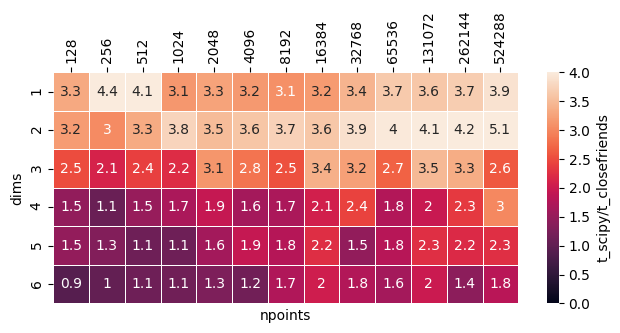
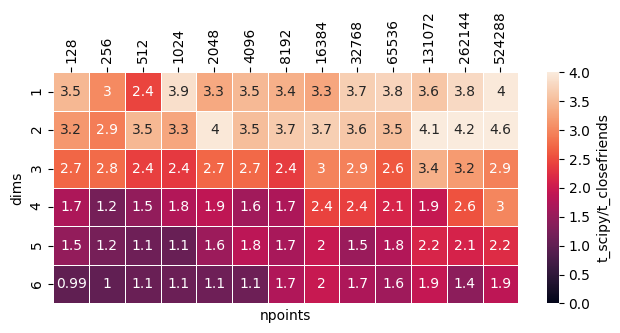
update README and perfstats with pair_i pair_j output

diff --git a/perfstats/square_constantpairs.py b/perfstats/square_constantpairs.py
@@ -45,7 +45,7 @@ for i, dim in enumerate(dims_iterator):
     for j, npoints in enumerate(npoints_iterator):
         seed += 1
         setup_stmt = setup_stmt_generator(seed, dim, npoints)
-        run_stmt = "pairs = cf.query_pairs(x, cutoff, maxnpair, output_type='ndarray')"
+        run_stmt = "pairs = cf.query_pairs(x, cutoff, maxnpair, output_type='seperate-ndarrays')"
         times_cf_square[i, j] = timeit(run_stmt, setup_stmt, number = 5)
 
 df_sp_square = pd.DataFrame(times_sp_square, index=dims_iterator, columns=npoints_iterator)

diff --git a/README.md b/README.md
@@ -6,14 +6,21 @@ strategy and sorting to improve sequential iteration over the pair list (like de
 ## Motivation
 
 In the Python world, there is already the well-established KDTree sub-module for finding pairs of points within an
-arbitrary-dimensioned particle cloud. This is not the optimal algorithm to use such as in particle-/point-based
-numerical methods, like in Smoothed Particle Hydrodynamics (SPH) used for CFD. For this particular case, closefriends
-can be 1.5 to 3 times faster than using `scipy.KDTree.query_pairs`.
+arbitrary-dimensioned particle cloud. It can be a little slow in some cases. For the purposes of Weakly-Compressible
+Smoothed Particle Hydrodymics simulations (WCSPH), this package is faster for finding pairs by:
+
+* using cell lists, which can be faster for 1/2/3D problems;
+* using user-defined pre-sized arrays to store resultant pairs, which can speed up code by 2-3x.
+
+The use of pre-sized arrays is significantly faster, but comes at the cost of less user-friendliness. This is because
+you must provide an upper limit on number of pairs, and if the actual number of pairs found is higher, the function
+fails (with an error message). For WCSPH simulations, the upper limit is known apriori, and doesn't change throughout
+the simulation.
 
 ## Usage
 
 The `closefrieds.query_pairs` function accepts a 2D Numpy `ndarray` where rows represent each point, and colums
-represent particles' coordinates.
+represent points' coordinates.
 
 
 ```python
@@ -53,9 +60,11 @@ for i, pair in enumerate(pairs):
 
 
 A couple key differences between the usage of `scipy.KDTree.query_pairs` and `closefriends.query_pairs`:
-* default output type is "ndarray". This is because:
-    * ndarrays are faster to iterate over in one direction, and
-    * the speed of both `closefriends` and `scipy.KDTree` is overwhelmingly dominated by the insertion of values into the set.
+* a third output type `output_type="seperate-ndarrays"` is available. This produces two 1D arrays that describe the pairs.
+    * This results in faster performance when combined with `numpy.ufunc.at`.
+* default output type is `"seperate-ndarrays"`. This is because: 
+    * the intended use case of this package prefers seperate 1D arrays instead of a single ndarray;
+    * when using `output_type="set"`, the time taken for both `closefriends` and `scipy.KDTree` is overwhelmingly dominated by the insertion of values into the set.
 * a maxnpair value is needed. This tells `closefriends.query_pairs` how large the pairs array needs to be (for performance reasons). If the number of pairs found is larger than the provided `maxnpair`, then a `BufferError` is thrown with an error message
 
 ### Sorting strategy
@@ -89,7 +98,7 @@ When running `closefriends.query_pairs` on this array of points, the particles a
 
 
 ```python
-pairs, idx = closefriends.query_pairs(x, r, maxnpair)
+pair_i, pair_j, idx = closefriends.query_pairs(x, r, maxnpair)
 
 ax = plt.scatter(x[:, 0], x[:, 1], c=np.arange(npoints))
 cb = plt.colorbar(ax, label="Index in point array")
@@ -108,7 +117,7 @@ For your convenience, the `idx` array is returned, which tells you the old index
 
 ### NDArray output
 
-Like `scipy.KDTree.query_pairs`, the output can be returned either as a set of tuples, or a 2D ndarray. The latter is the default, as it is faster to iterate over sequentially. Return a `set` by passing `output_type = "set"`. Or explicitly ask for an NDArray to be returned with `output_type = "ndarray"`.
+Like `scipy.KDTree.query_pairs`, the output can be returned either as a set of tuples, or a 2D ndarray. Return a `set` by passing `output_type = "set"`. Or explicitly ask for an NDArray to be returned with `output_type = "ndarray"`.
 
 ## Performance
 
@@ -118,4 +127,6 @@ First consider uniform random points generated using `np.rng.random()`. The numb
 
 For  3 dims and lower, `closefriends.query_pairs()` maintains at least 2x speedup over `scipy.KDTree.query_pairs`. The relative speed is less as the number of dimensions increase, but `closefriends` apparently retains better performance for larger problem sizes. But key for the purpose of this tool, is that for 2D and 3D problems, closefriends is significantly faster.
 
-if `retain_order = True` is used, the performance should reduce a bit, but should overall still be fast.
+if `retain_order = True` and/or `output_type = "ndarray"` are used, the performance should reduce a bit, but should overall still be fast.
+
+
